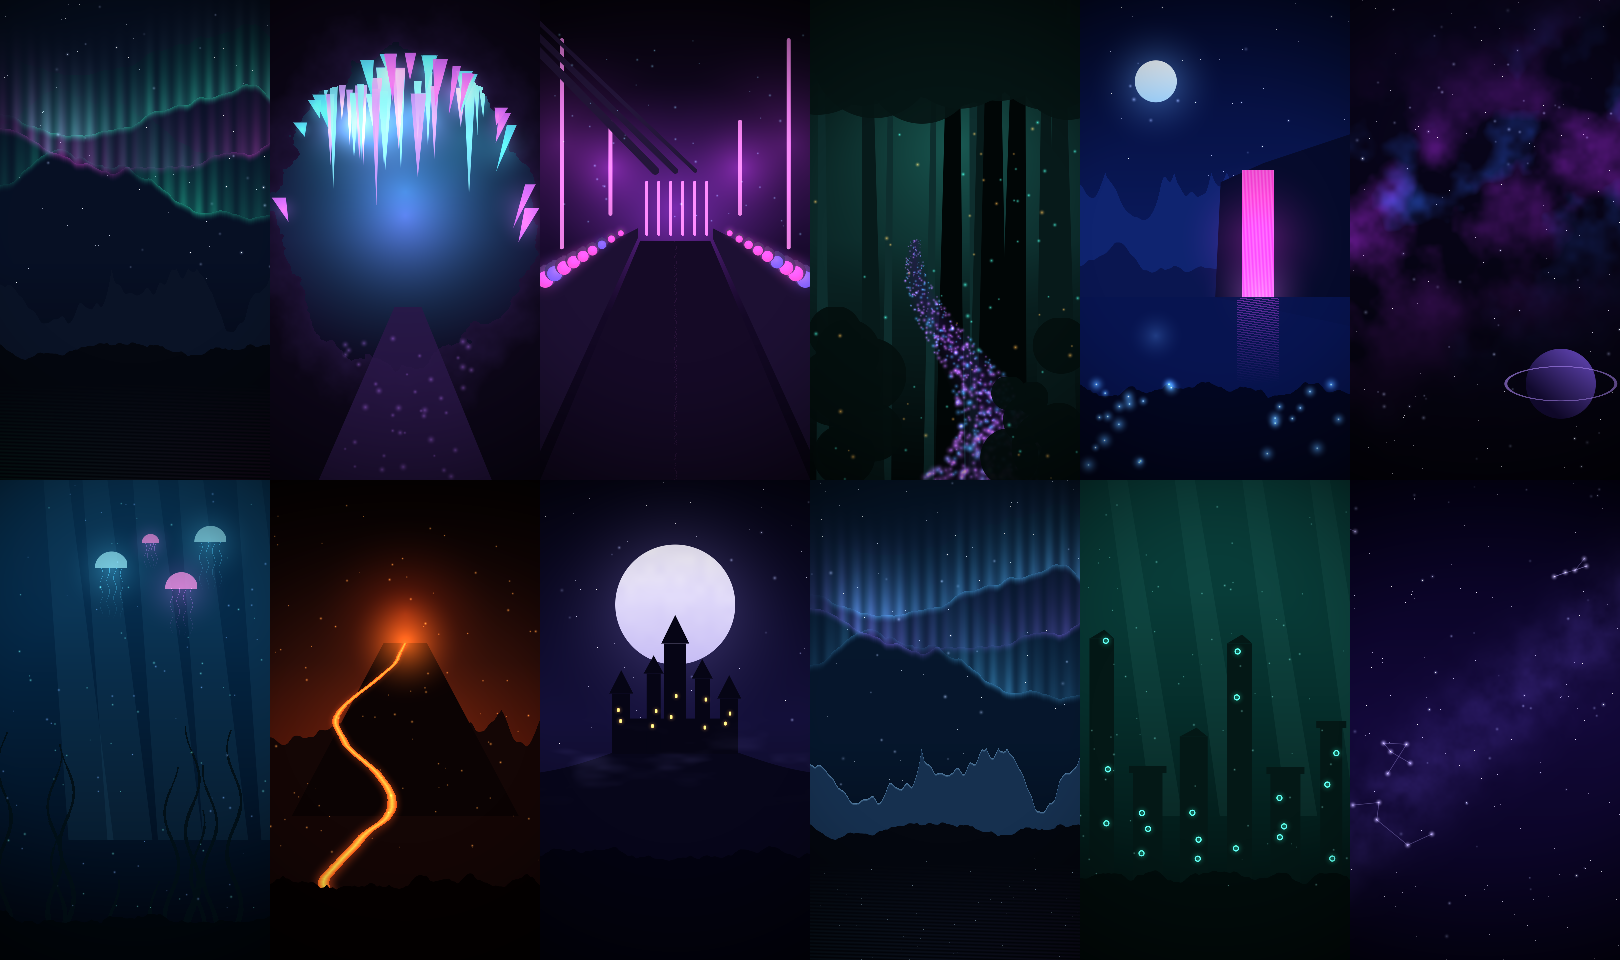
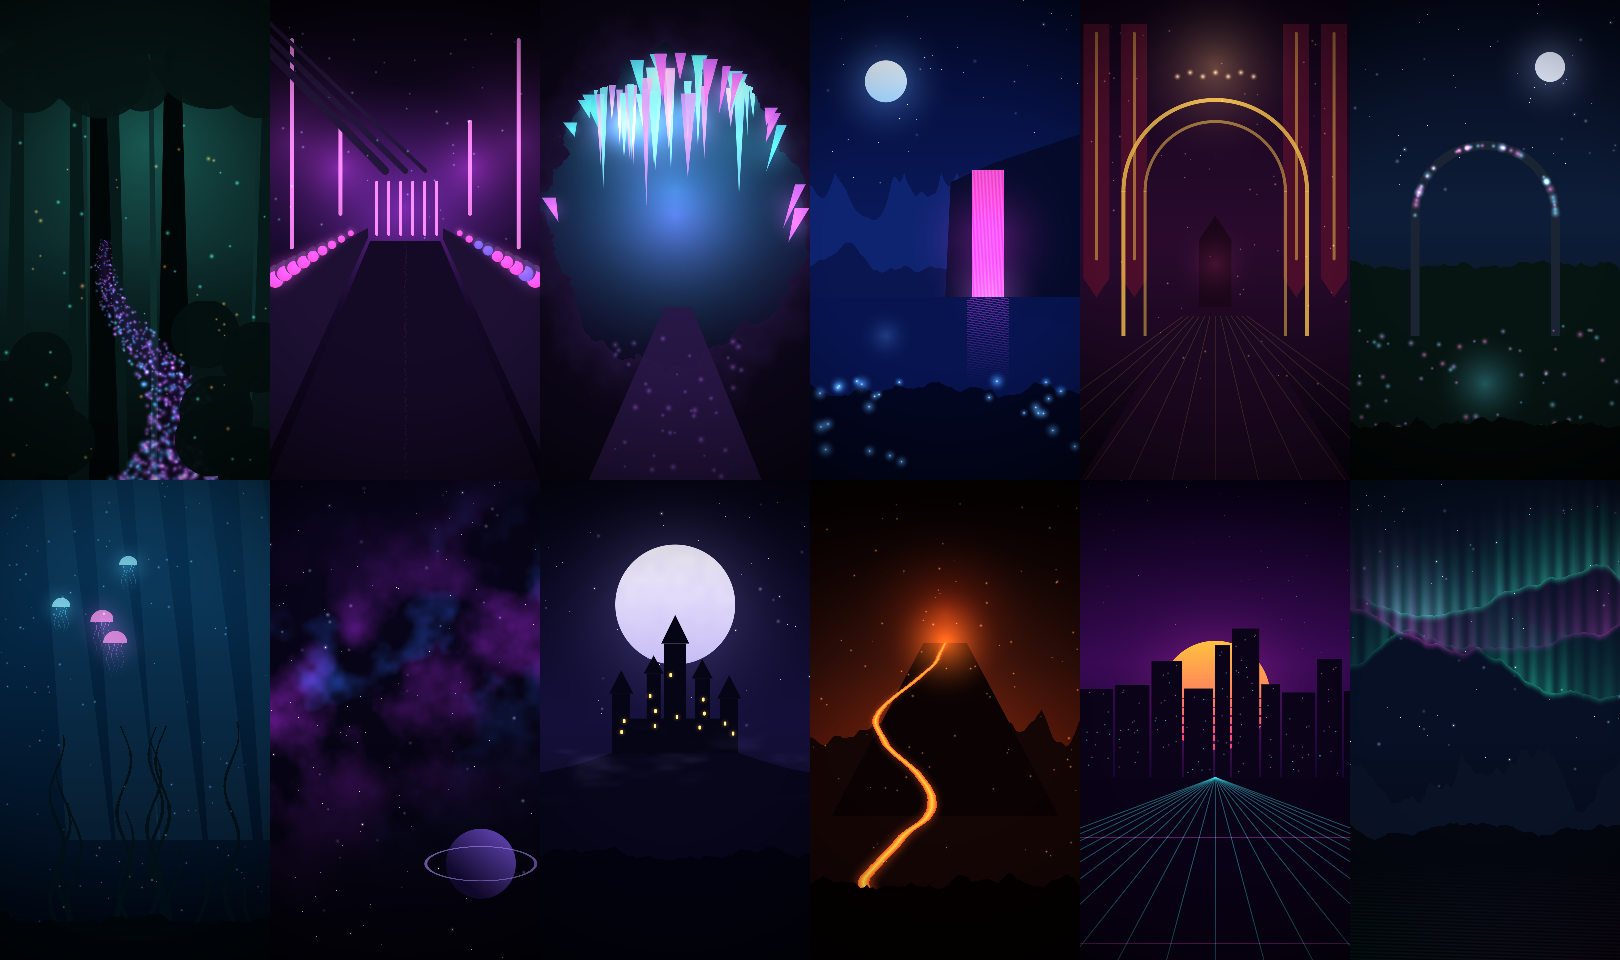
Veliqora docs: brief coverage status, special mechanics spec, test report (133 EditMode / 21 PlayMode), refreshed art previews
Claude-Session: https://claude.ai/code/session_01MkKN911mke83qgkCiSnDbx

diff --git a/Veliqora/README.md b/Veliqora/README.md
@@ -3,15 +3,16 @@
 Original water-sort puzzle for Android, built in **Unity 6 (LTS)** with C#.
 The working title for the store is *Veliqora: Color Sort Puzzle*. This repo makes no claim about trademark status or Play Store availability.
 
-> **Status (honest summary):** the pure C# game core, 300 verified levels and 106 automated tests are
+> **Status (honest summary):** the pure C# game core, 300 verified levels and 133 automated tests are
 > implemented and **were executed** in this environment (.NET 8). The Unity layer (scenes, UI, rendering,
 > audio, ads, editor tooling, PlayMode tests) is implemented and **compiles** against Unity reference
 > assemblies. It has **not been run inside the Unity Editor or on a device yet**, because no Unity Editor or license was
 > available here. See [IMPLEMENTATION_STATUS.md](IMPLEMENTATION_STATUS.md) and [TEST_REPORT.md](TEST_REPORT.md).
 
 ## Visual direction: premium dark fantasy
-- **12 original dark backgrounds**, all free to select (Themes tab): Aurora Night, Crystal Cavern, Alchemist's Lab, Glowing Forest,
-  Neon Falls, Nebula Drift, Abyssal Deep, Ember Peaks, Moonlit Citadel, Frost Aurora, Sunken Ruins, Starlit Void.
+- **12 original dark backgrounds**, all free to select (Themes tab): Midnight Forest, Neon Laboratory, Crystal Cave, Moonlight Waterfall,
+  Dark Royal, Mystic Garden, Deep Ocean, Galaxy Flow, Enchanted Castle, Volcanic Glow, Cyber Neon, Aurora Night. Each has its own ambient particles
+  (fireflies, sparks, crystals, mist, bubbles, stars, embers).
   They are painted procedurally by `DarkScenes` and inspired by the supplied mood images, which are not copied or shipped.
   Aurora Night is the default.
 - **Liquids and bottles:** vibrant neon liquids (12 hues, minimum ΔE 36.9 between any two) and glossy transparent bottles with a neon aura tinted by the top liquid.
@@ -24,8 +25,8 @@ The working title for the store is *Veliqora: Color Sort Puzzle*. This repo make
 2. In Unity Hub choose **Add project from disk** and select this `Veliqora/` folder. Unity resolves `Packages/manifest.json`
    (uGUI, Input System, Test Framework). If Unity asks to enable the new Input System backend, either choice works,
    because the code supports both.
-3. The 7 scenes and Build Settings are **committed** (`Assets/_Veliqora/Scenes`, `ProjectSettings/EditorBuildSettings.asset`). Optionally run **Veliqora → Setup Project**. It is idempotent and does the following:
-   - creates the scenes `Bootstrap, Home, LevelMap, Gameplay, LevelComplete, Shop, Customization` (each with a `SceneEntry` marker)
+3. The 8 scenes and Build Settings are **committed** (`Assets/_Veliqora/Scenes`, `ProjectSettings/EditorBuildSettings.asset`). Optionally run **Veliqora → Setup Project**. It is idempotent and does the following:
+   - creates the scenes `Bootstrap, MainMenu, LevelMap, Gameplay, LevelComplete, Shop, Themes, Settings` (each with a `SceneEntry` marker)
      and adds them to Build Settings in that order;
    - sets the Android player settings: package placeholder `com.animatix.veliqora`, portrait, IL2CPP, ARM64, min SDK 24, target SDK *auto*;
    - generates the PLACEHOLDER app icons and the feature graphic in `Assets/_Veliqora/Art/Icons/`.
@@ -40,9 +41,9 @@ real scenes aren't in Build Settings.
 | Area | Where | Notes |
 |---|---|---|
 | Pure game core (no `UnityEngine`) | `Assets/_Veliqora/Scripts/Core` (`Veliqora.Core.asmdef`, `noEngineReferences`) | rules, solver, generator, session/undo/hints, economy, save, ads contract |
-| Unity runtime | `Assets/_Veliqora/Scripts/{Infrastructure,UI,Presentation,Gameplay,Audio,Settings,Ads}` (`Veliqora.Runtime.asmdef`) | composition root, navigation, screens, liquid rendering, audio, haptics, mock ads |
+| Unity runtime | `Assets/_Veliqora/Scripts/{Infrastructure,UI,Presentation,Gameplay,Audio,Settings,Monetization,Themes,Data}` (`Veliqora.Runtime.asmdef`) | composition root, navigation, screens, liquid rendering, audio, haptics, mock ads |
 | Editor tooling | `Assets/_Veliqora/Editor` | Setup Project, Validate Project, Generate/Batch-Validate Levels, Android builds, screenshots |
-| Content | `Assets/_Veliqora/Resources/Veliqora/{Levels,Config}` | `levels.json` (300 levels), `economy.json` (prices/rewards/cosmetics), `ads.json` (placeholder IDs) |
+| Content | `Assets/_Veliqora/Resources/Veliqora/{Levels,Config}` | `levels.json` (300 levels), `economy.json` (prices/rewards/cosmetics), `progression.json` (daily rewards, achievements), `strings_ro.json` (Romanian), `ads.json` (placeholder IDs); optional `ContentConfig` ScriptableObject overrides |
 | Tests | `Assets/_Veliqora/Tests/{EditMode,PlayMode}` | EditMode tests run in Unity **and** via `dotnet test` |
 | Offline tools | `Tools/` | .NET projects: core build, LevelGen, test runner, Unity compile check, art preview |
 | Docs | `DESIGN_SPEC.md`, `IMPLEMENTATION_STATUS.md`, `TEST_REPORT.md`, `Docs/` | build/release guide, release checklist, level reports, art previews |
@@ -51,8 +52,8 @@ real scenes aren't in Build Settings.
 
 ```bash
 # from Veliqora/
-dotnet test Tools/Veliqora.Core.Tests                         # 106 EditMode tests against the pure core
-dotnet run -c Release --project Tools/LevelGen -- build       # regenerate the 300 levels deterministically (~10 s)
+dotnet test Tools/Veliqora.Core.Tests                         # 133 EditMode tests against the pure core
+dotnet run -c Release --project Tools/LevelGen -- build       # regenerate the 300 levels deterministically (~12 min: special mechanics are solver-verified)
 dotnet run -c Release --project Tools/LevelGen -- validate    # replay + independent solver check -> Docs/level_validation_report.csv
 dotnet build Tools/UnityCompileCheck                          # compile Unity-side code against reference assemblies (optional)
 dotnet run -c Release --project Tools/ArtPreview -- Docs/ArtPreview   # render procedural art previews to PNG
@@ -65,9 +66,16 @@ UnityEditor 2021.1). It is a fast sanity check only; opening the project in Unit
 
 - Tap a bottle to select it, then tap a destination. The contiguous top run of one color pours, limited by free space.
   A pour is legal only onto the same color or into an empty bottle.
-- The level is won when every bottle is empty, or full and a single color.
-- There are four boosters: **Undo** (exact snapshot revert), **Add bottle** (one temporary empty bottle), **Shuffle**
-  (a new *verified-solvable* layout, with a disclosure before it restarts) and **Hint** (the next move from the solver; it is charged only when a real hint is found).
+- The level is won when every bottle is empty, or a single color that is either full or holds every unit of that color (bottles may have
+  capacity 2–6 in the same level).
+- Special bottles: **mystery layers** (“?” units revealed when they reach the top or the bottle completes), **corked bottles** (open when a
+  color is completed, after N moves, after another bottle opens, or after N completed bottles) and optional **bonus bottles** unlocked by a
+  rewarded ad (never needed to win).
+- **Objectives** (fill a color, complete bottles, open corks, reveal mystery, optional ad bonus) are shown at the top and pay coins at the win.
+- Five boosters: **Undo**, **Add bottle**, **Shuffle** (a new *verified-solvable* layout), **Remove color** (removes the tapped bottle's top
+  color everywhere, only if the board stays solvable, charged only on success) and **Hint** (from the solver). Levels can disable boosters.
+- No move limit. **Daily rewards** (7-day streak, optional ad double), **achievements** with claimable coins, unlock notifications.
+- UI language: English and Romanian (Settings → Language; follows the device by default).
 - Stars depend on the move count relative to a solver benchmark, with forgiving, published thresholds (see DESIGN_SPEC §5).
 - Coins come from levels and milestones. Everything is offline-first, and rewarded ads are optional, guarded and never block progress.
 

diff --git a/Veliqora/TEST_REPORT.md b/Veliqora/TEST_REPORT.md
@@ -4,17 +4,17 @@ Date: 2026-10-31. Environment: Linux container, .NET SDK 8.0.133 (Ubuntu package
 
 ## 1. Executed
 
-### 1.1 EditMode suite against the pure core: **106 / 106 passed**
+### 1.1 EditMode suite against the pure core: **133 / 133 passed**
 ```
 $ cd Veliqora && dotnet test Tools/Veliqora.Core.Tests -c Release
-Passed!  - Failed: 0, Passed: 106, Skipped: 0, Total: 106, Duration: 1 s - Veliqora.Core.Tests.dll (net8.0)
+Passed!  - Failed: 0, Passed: 133, Skipped: 0, Total: 133, Duration: 57 s - Veliqora.Core.Tests.dll (net8.0)
 ```
 These are the same source files Unity's Test Runner uses (`Assets/_Veliqora/Tests/EditMode`, NUnit 3 attributes only).
 
 | Fixture | Tests | Covers |
 |---|---|---|
 | PuzzleRulesTests | 19 | all legal/illegal pour cases, out-of-range, contiguous run, free-space limit, immutability, custom capacity, win (incl. empty / one-color), stuck, useful moves, canonical keys, color distribution |
-| GameSessionTests | 16 | tap state machine, deselect/reselect, busy lock, rapid-tap conservation, multi-unit undo, undo after win blocked, extra bottle (survives undo/restart, max 1), restart, hint legality + hint-following solves, solver fallback, dead-end truthful message, shuffle restart + par, snapshot round trip, tampered snapshot rejection |
+| GameSessionTests | 18 | tap state machine, deselect/reselect, busy lock, rapid-tap conservation, multi-unit undo, undo after win blocked, extra bottle (survives undo/restart, max 2), locked taps, Remove Color commit, restart, hint legality + hint-following solves, solver fallback, dead-end truthful message, shuffle restart + par, snapshot round trip, tampered snapshot rejection |
 | SolverAndGeneratorTests | 13 | verified solutions, proven-unsolvable, already solved, node budget, cancellation, illegal-sequence rejection, PRNG determinism/uniformity/golden stability, deal determinism + color conservation, generator determinism + verification, rejection of unsolvable configs, verified shuffle, stuck-rate determinism |
 | LevelCatalogTests | 10 | 300 contiguous levels, **all 300 replay-verified**, **all 300 re-solved independently within budget**, tiers (incl. Master) + 10 handcrafted, 2–8 colors (≤12 in Master), tier-average ramp, no trivial or pre-completed starts, **first 40 levels reproducible from seed**, JSON round trip, star thresholds |
 | EconomyTests | 10 | data-driven prices, starting grant once, purchase atomic + idempotent, insufficient funds (no state change, retryable), never negative, consume/refund idempotency, first-clear vs replay rewards, milestone, cosmetics, bounded ledger |
@@ -22,12 +22,15 @@ These are the same source files Unity's Test Runner uses (`Assets/_Veliqora/Test
 | RewardedAdGateTests | 10 | reward only on Completed, duplicate callbacks, cancel/fail/no-fill, timeout + late completion ignored, single in-flight, unavailable, abort on background, cooldown, NoAds never blocks |
 | MiniJsonTests | 6 | round trip, malformed input |
 | StagePacingTests | 6 | deterministic planner, boss at every stage finale, random hard levels appear early (≤ L20) at ~10–30% and never back-to-back, hard/boss harder than normal (par + stuck rate) in every tier, non-linear difficulty, hard/boss first-clear bonus |
+| SpecialBottlesTests | 18 | mystery reveal/undo/hidden units never move, corks (all 4 conditions, chained unlocks), bonus bottles never required, mixed capacities win rule, objectives, Remove Color, JSON round trip |
+| ProgressionTests | 6 | daily streak/claim once/ad double once, achievements claim once, newly completed, v2→v3 save migration |
+| LocalizationTests | 3 | Romanian covers every direct `Loc.T/F` call and every achievement title; placeholders kept; English fallback |
 | ProjectFilesTests | 3 | committed scenes reference `SceneEntry` with the right ScreenId, Build Settings order + GUIDs, 12 distinct dark backgrounds configured |
 
 ### 1.2 Batch level validation: **300 / 300 PASS**
 ```
 $ dotnet run -c Release --project Tools/LevelGen -- validate
-Validated 300 levels: 300 PASS, 0 FAIL in 0.2s -> Docs/level_validation_report.csv
+Validated 300 levels: 300 PASS, 0 FAIL in 35.4s -> Docs/level_validation_report.csv
 ```
 For each level the validator:
 - checks the color distribution;
@@ -83,7 +86,7 @@ After the change, the 106 EditMode tests still pass (the economy test now expect
 | Item | Status | How to run |
 |---|---|---|
 | EditMode suite inside Unity | pending | Window → General → Test Runner → EditMode → Run All |
-| 14 PlayMode tests (home→map→level→win→next, restart, pause/resume, rapid tapping, boosters, shop, theme apply + persistence, save/reload, offline ad fallback, mock rewarded success/cancel, safe area, back button) | **written, never run** | Test Runner → PlayMode → Run All (uses an isolated temp save directory via `AppRoot.Reboot`) |
+| 21 PlayMode tests (home→map→level→win→next, restart, pause/resume, rapid tapping, boosters, shop, theme apply + persistence, save/reload, offline ad fallback, mock rewarded success/cancel, safe area, back button, 12 dark themes, rewarded empty bottle, corked bottle, bonus bottle ad, mystery + objectives, Remove Color, daily reward, language switch, achievement notices) | **written, never run** | Test Runner → PlayMode → Run All (uses an isolated temp save directory via `AppRoot.Reboot`) |
 | Unity 6 compilation | pending | open project; check Console |
 | Visual QA / automated screenshots | pending | Play Mode + **Veliqora → Capture Screenshot**; checklist below |
 | Performance (60 FPS target, GC, startup) | **not measured** | Unity Profiler on a midrange Android device (development build) |

diff --git a/Veliqora/DESIGN_SPEC.md b/Veliqora/DESIGN_SPEC.md
@@ -113,6 +113,31 @@ Veliqora.Core (no UnityEngine)         Veliqora.Runtime (Unity)                 
 - **UI:** stage banners and red **HARD** / violet crowned **BOSS** nodes on the map; HUD shows "Stage N" and a pulsing HARD/BOSS badge plus an intro toast;
   Home shows the stage; Level Complete shows the bonus.
 
+## 5c. Special bottles, objectives and the brief's curve (content version 3)
+- **Capacity per bottle (2–6).** A bottle is *complete* when it is non-empty, monochrome and either full or holding every unit of that
+  color on the board. The level is won when every bottle is empty or complete. Color totals must fit a bottle or be a multiple of a capacity.
+- **Mystery layers.** `BottleState.Hidden` counts hidden units at the bottom; the top unit is always visible. Only revealed units pour.
+  Units are revealed when they become the top, or when their bottle completes. Validation uses full information; hints never reveal.
+- **Corks.** `BottleLock(kind, param)`: `CompleteColor` (a color finished), `Moves` (after N pours), `AfterBottle` (another bottle opened),
+  `CompletedBottles` (N complete bottles). Locks are resolved after every pour (chains resolve in one step). Corked bottles are neither
+  source nor destination; the board shows the condition on a tag and a tap explains it.
+- **Bonus bottles.** Empty, ad-locked bottles (`RewardLocked`). They are never required by the verified solution; a completed rewarded ad
+  unlocks one (also in the undo history).
+- **Objectives** (`ObjectiveDef`): CollectColor, CompleteBottles, UnlockBottles, RevealMystery, FinishLevel; optional `requires` chain and
+  ad-only `rewarded` bonus. Progress is derived from (initial, current) states, so undo/restart are consistent. Coins are granted at the win,
+  once per attempt (`obj:<attempt>:<id>`, ad bonus `objad:<attempt>:<id>`). The catalog validator checks all objectives are achievable at the win.
+- **Remove Top Color** removes the tapped bottle's top color from all unlocked bottles, only if the solver proves the result solvable; it is
+  charged only on success and clears undo history. Boss levels and tutorials can disable boosters (`disabledBoosters`).
+- **Curve:** 1–10 handcrafted; 11–70 classic 3–6 colors with one-spare alternates; 71–85 mystery; 86–100 mixed sizes; 101–110 corks;
+  111–120 corks + bonus bottle; 121–200 combinations; 201–300 Master combinations. Stage pacing (random Hard, Boss finales) is applied on top.
+  Per-level difficulty 1–10 and base coins `20 + 2·(difficulty−1)`.
+
+## 6c. Daily rewards, achievements, localization
+- `progression.json`: 7-day reward cycle (streak resets after a missed day; claim `daily:<day>`, optional ad double `dailyad:<day>`), 13
+  achievements on metrics (levels, stars, three-star levels, hard, boss, mystery, corks, objectives, daily, themes, boosters), claim `ach:<id>`.
+  Completed achievements raise a one-time unlock notification.
+- Localization: English source strings are keys; `strings_<lang>.json` overrides (Romanian shipped). Missing keys fall back to English.
+
 ## 6. Boosters and economy (`economy.json`)
 - **Starting grant (once):** 200 coins, Undo ×3, Add bottle ×1, Shuffle ×1, Hint ×2.
 - **Level reward:**

diff --git a/Veliqora/IMPLEMENTATION_STATUS.md b/Veliqora/IMPLEMENTATION_STATUS.md
@@ -93,6 +93,23 @@ an APK/AAB, or on-device performance.
 - 🟡 **UI (compiles, not run):** "Colors are blocked!" panel with 3 helps + ad bottle + restart + close; rewarded empty bottle (mock ads now,
   real SDK later); "No move limit" HUD text. The PlayMode test checks that a cancelled ad gives nothing and a completed ad adds exactly one bottle.
 
+## Full brief coverage ("aplică tot")
+- ✅ **Core mechanics (tested):** per-bottle capacity 2–6, generalized win rule, mystery layers (reveal on exposure / completion, never moved
+  while hidden), corks with 4 unlock conditions resolved iteratively, ad-locked bonus bottles, move counter, lossless board JSON, solver and
+  generator aware of all of them (locked bottles never sources, reward bottles never needed by the verified solution).
+- ✅ **Objectives:** model + tracker derived from board state (undo-safe), rewards once per attempt via ledger keys, validated at win for every level.
+- ✅ **Remove Top Color:** solver-verified before it is applied, charged only on success, undo history cleared.
+- ✅ **Levels:** content version 3, curve per brief (mechanics from 71, combos 121–200, Master 201–300) merged with stage pacing; 300/300 validated.
+- ✅ **Daily rewards / achievements / stats:** services, config (`progression.json`), save schema v3 + v2→v3 migration.
+- ✅ **Localization:** `Localizer` (English source keys), `strings_ro.json`; a test fails if any direct `Loc.T/F` string lacks a Romanian entry.
+- 🟡 **UI (compiles, not run in Unity):** objective panel, 5-button booster bar with disabled state, Remove Color selection mode, bonus-bottle
+  ad dialog, cork condition toasts, unlock/reveal FX, 5 new tutorials, Daily Reward overlay (auto-opens), Achievements overlay, unlock
+  notification queue, objective/ad bonus on Level Complete, Settings scene with language switch, themes renamed to the brief list.
+- 🟡 **Architecture:** `IPurchaseService`/`NoPurchaseService`, `IConsentService`/`PlaceholderConsentService`, optional
+  `VeliqoraContentConfig` ScriptableObject, folders Monetization/Themes/Data.
+- 🟡 **PlayMode tests:** 21 written (7 new: corks, bonus bottle ad, mystery + objectives, Remove Color, daily, language, achievement notices). Not executed.
+- ⬜ Still requires you: real ad SDK + IDs, real consent (UMP/CMP), IAP products, Unity run, device QA, store assets.
+
 ## Known issues / risks to check first in Unity
 1. **First open:** let Unity import, then run Setup. If the Input System prompt appears, either choice is fine.
 2. **API drift:** the compile check used Unity 2021.3/2020.3 reference assemblies. Unity 6 may report obsolete-API warnings (handled via `#if UNITY_2021_2_OR_NEWER` for known ones).

diff --git a/Veliqora/Docs/PROMPT_GAP_ANALYSIS.md b/Veliqora/Docs/PROMPT_GAP_ANALYSIS.md
@@ -1,5 +1,30 @@
 # VELIQORA — analiză: prompt-ul „COMPLETE UNITY GAME IMPLEMENTATION” vs. proiectul actual
 
+## Actualizare după „Da aplică tot” (2026-10-31)
+
+Toate golurile A–J de mai jos au fost implementate, cu excepția celor care cer conturi sau SDK-uri reale:
+
+| # | Sistem | Stare acum |
+|---|---|---|
+| A | Sticle cu dop (4 condiții de deblocare) | ✅ motor + solver + generator + teste · 🟡 UI (etichetă cu condiția, mesaj la atingere, animație la deschidere) |
+| B | Mystery layers | ✅ motor + teste (dezvăluire, undo, unitățile ascunse nu se mută) · 🟡 UI cu „?” |
+| C | Rewarded Bottle | ✅ motor (niciodată necesară pentru soluție) · 🟡 UI cu dialog de reclamă; deblocare doar la reclamă completă |
+| D | Capacități 2/3/5/6 în același nivel | ✅ regula de victorie generalizată, generator SmallLarge/Wide, 300/300 validate |
+| E | Obiective | ✅ model, progres derivat din stare (corect la undo), recompense o singură dată · 🟡 panou sus + bonus pe ecranul de victorie |
+| F | Remove Top Color | ✅ verificat cu solverul înainte, taxat doar la succes · 🟡 al 5-lea buton + mod de selecție |
+| G | Daily Reward, Achievements, Unlock Notification | ✅ servicii + salvare v3 + teste · 🟡 overlay-uri, notificări în coadă |
+| H | Localizare RO/EN | ✅ tabel de traduceri + test care cere traducere pentru fiecare text · 🟡 comutator în Setări |
+| I | ScriptableObjects | 🟡 `VeliqoraContentConfig` opțional (suprascrie JSON-urile) |
+| J | IAP și consimțământ | 🟡 doar interfețe (`IPurchaseService`, `IConsentService`) + implementări placeholder; SDK-urile reale lipsesc intenționat |
+
+De asemenea: Settings a devenit scenă, temele poartă exact numele din brief (inclusiv Dark Royal, Mystic Garden, Cyber Neon), iar curba
+urmează brief-ul (mecanici de la 71, combinații 121–200), împreună cu etapele Hard/Boss. 133 de teste EditMode trec, 21 de teste PlayMode
+sunt scrise (nerulate: Unity nu există aici). Rămân la tine: SDK de reclame + ID-uri, consimțământ real, produse IAP, rulare în Unity, QA pe telefon.
+
+---
+
+## Analiza inițială (înainte de implementare)
+
 Data: 2026-10-31 · branch `ccr-454f53a2-sy5k23`. Am verificat în cod, nu din memorie.
 
 Legendă:
